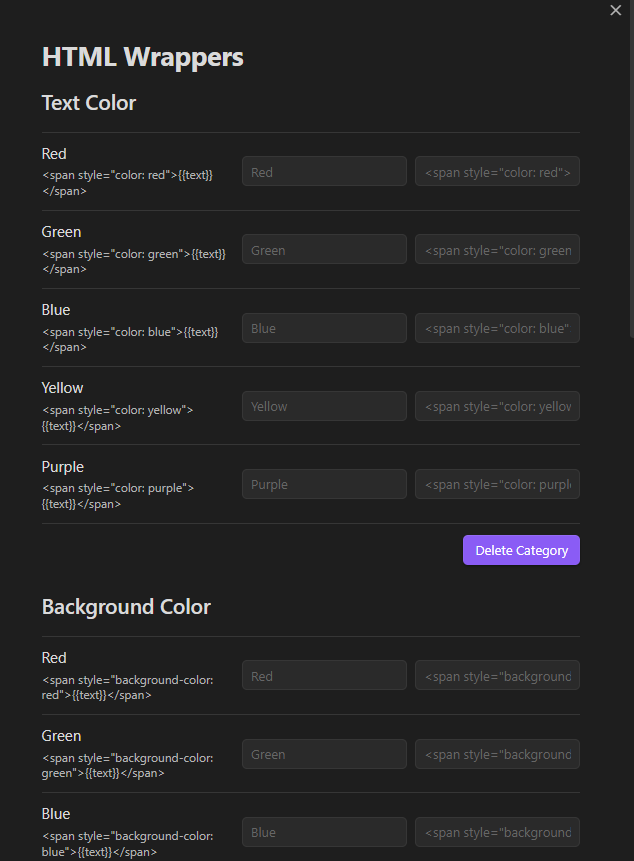
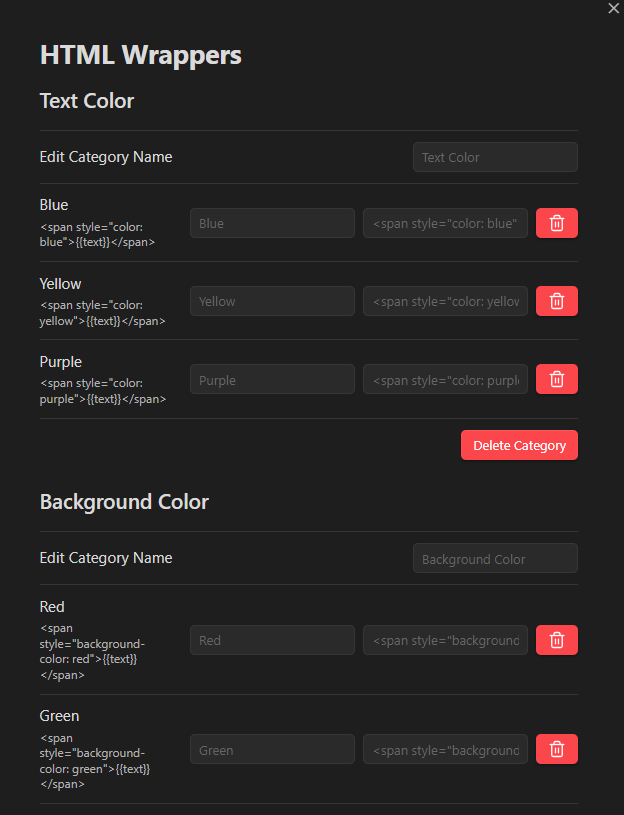
Adding edit and delete to settings menu

diff --git a/README.md b/README.md
@@ -13,4 +13,4 @@
 - [ ] Edit and Delete Items from Settings Menu
   - [X] Edit
   - [X] Delete
-- [ ] Fix the Hover bug in the SubMenu
+- [X] Fix the Hover bug in the SubMenu
